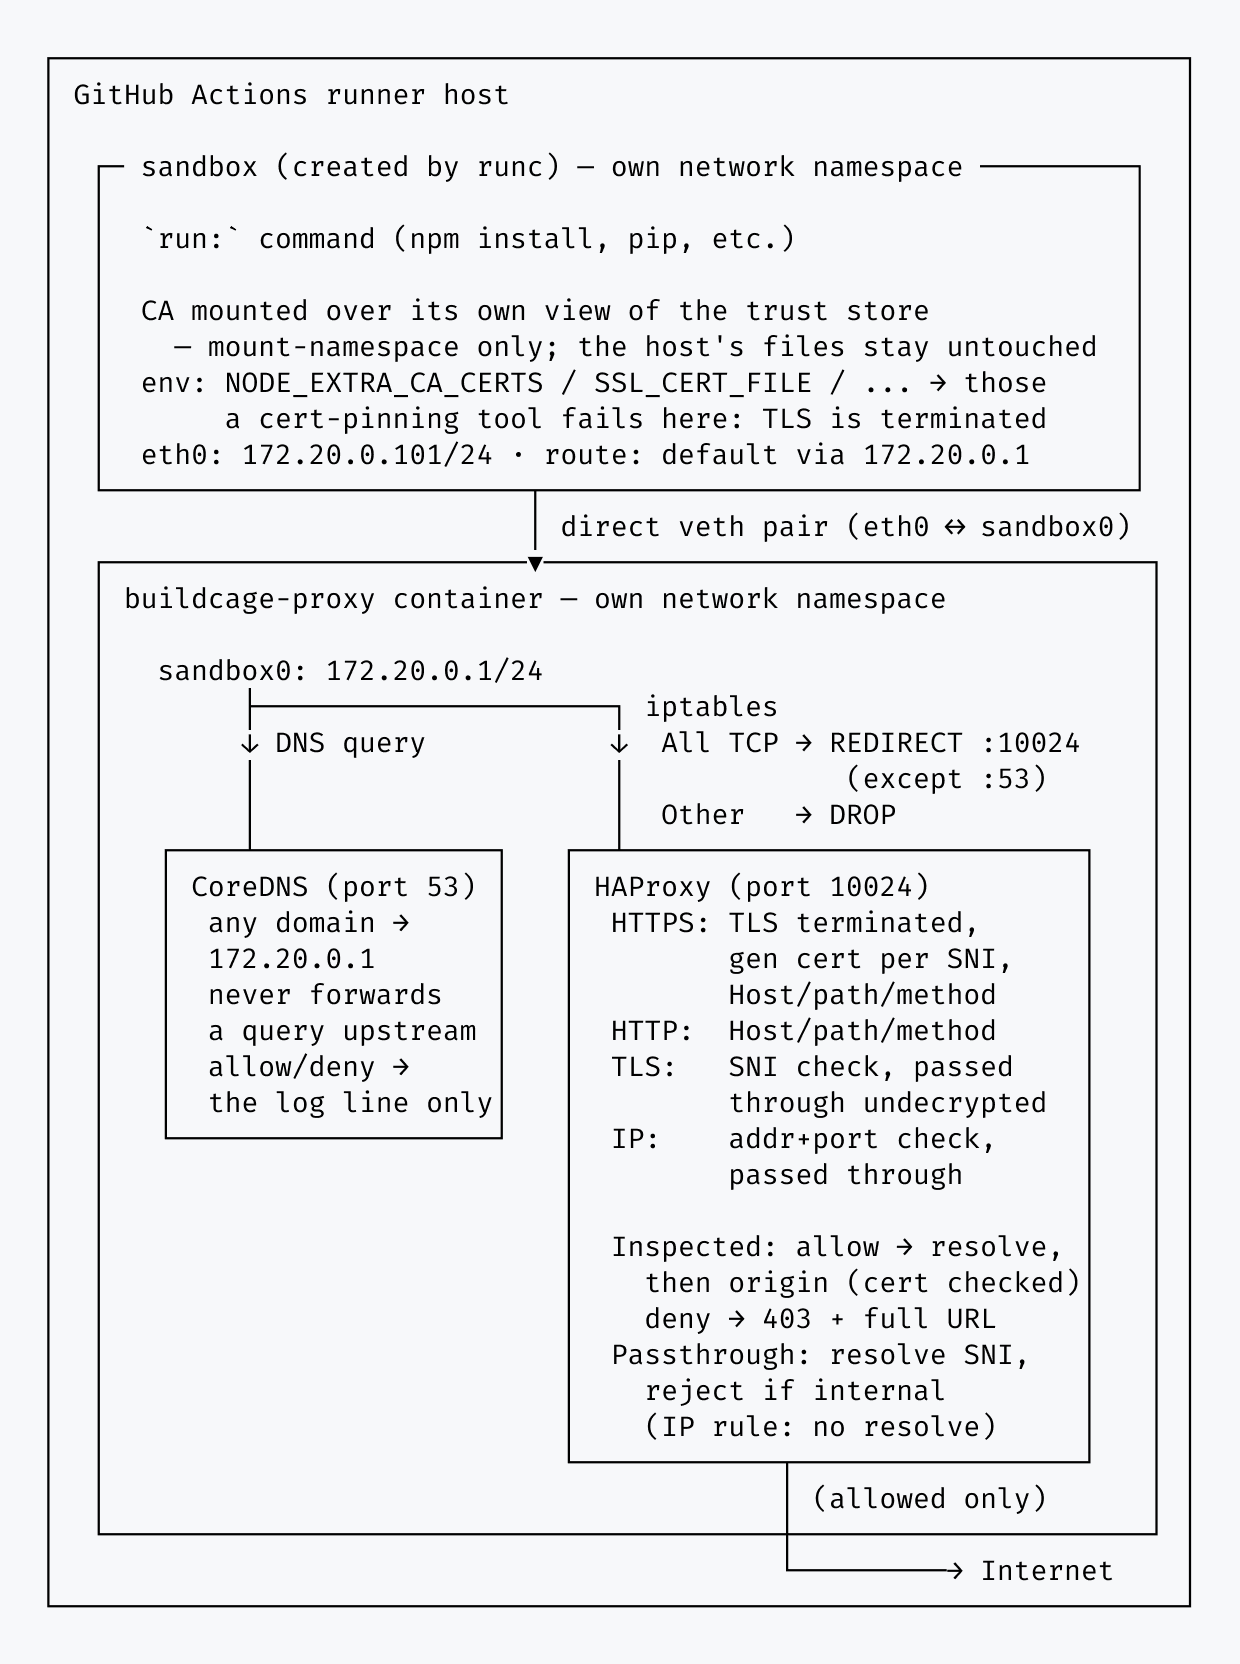
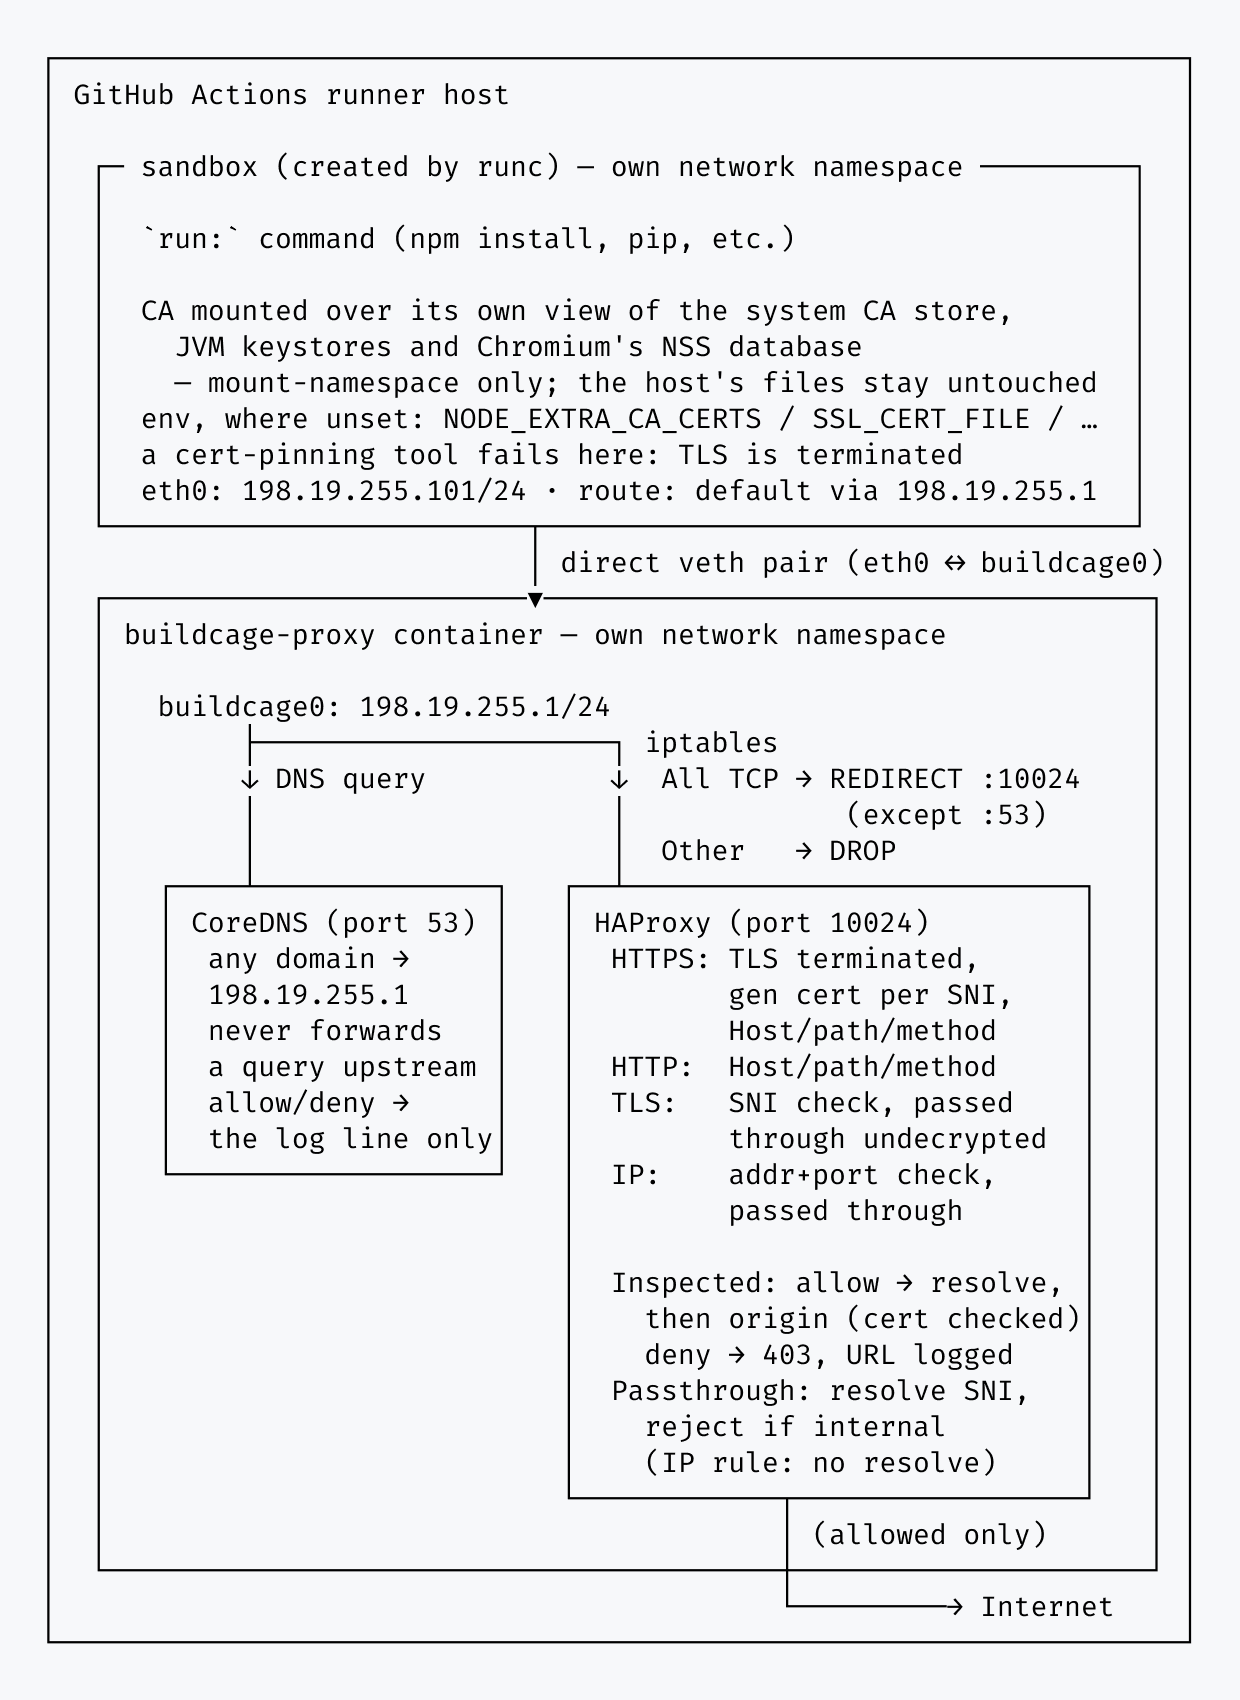
docs: update the architecture diagrams to the current network and CA setup

diff --git a/docs/security.md b/docs/security.md
@@ -199,7 +199,7 @@ reaches allowed names over IPv4 only, so a name with no A record never resolves 
 
 ## Isolation mechanisms
 
-<img src="../assets/diagram-architecture-universal.png" alt="isolated-run sandbox architecture" width="620" height="544">
+<img src="../assets/diagram-architecture-universal.png" alt="isolated-run sandbox architecture" width="620" height="634">
 
 The isolated command runs as an [OCI](https://github.com/opencontainers/runtime-spec) container
 under [runc](https://github.com/opencontainers/runc) rather than being wrapped directly by
@@ -450,7 +450,7 @@ on a separate code path, and `allowed_ip_rules` is what decides it.
 
 ### Inspect proxy engine
 
-<img src="../assets/diagram-architecture-inspect.png" alt="Inspect proxy engine architecture" width="620" height="832">
+<img src="../assets/diagram-architecture-inspect.png" alt="Inspect proxy engine architecture" width="620" height="850">
 
 The default engine. The same sandbox and the same network boundary, but the proxy terminates TLS
 instead of only reading the SNI, so a rule can check the method and the full URL rather than only the
